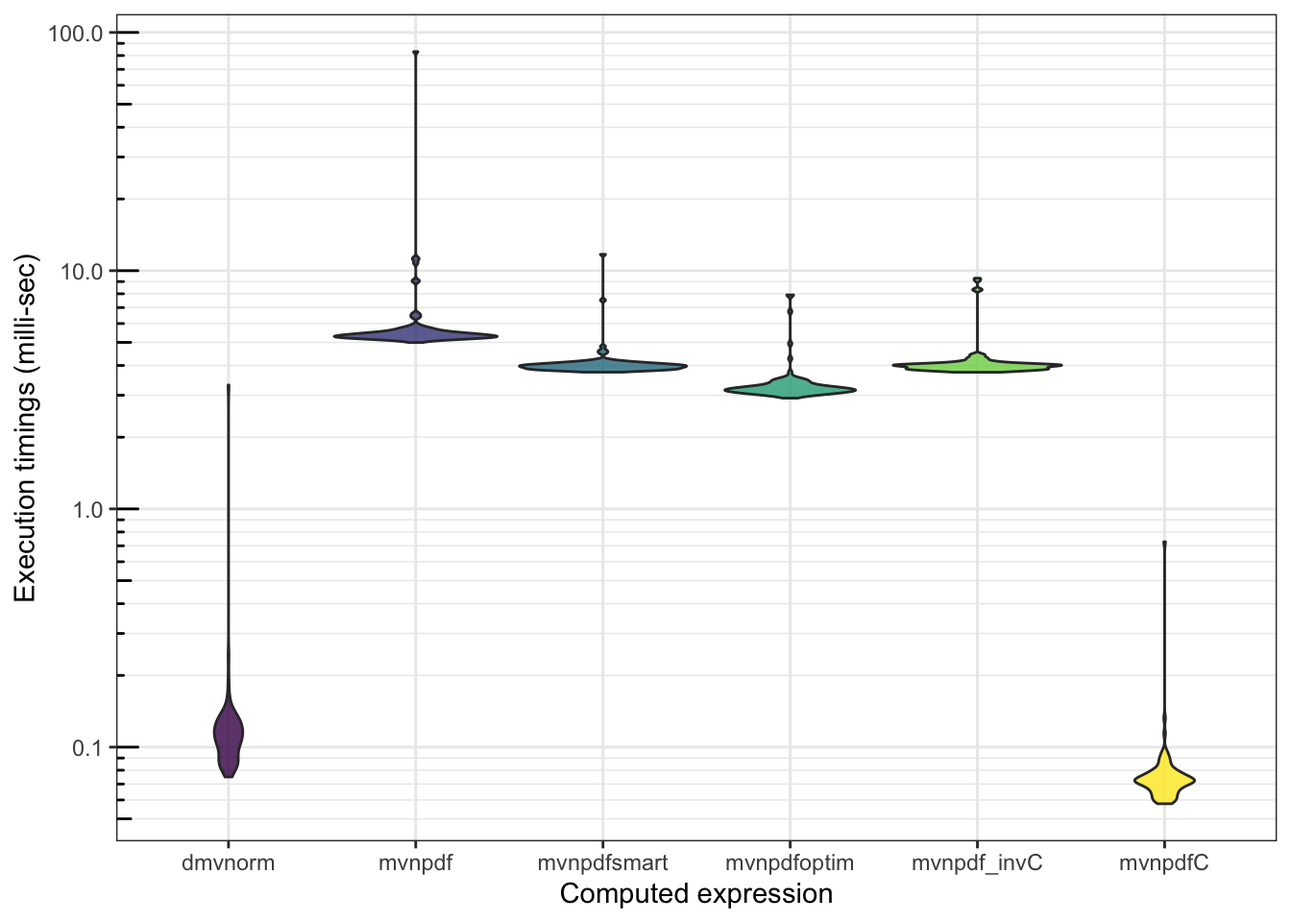
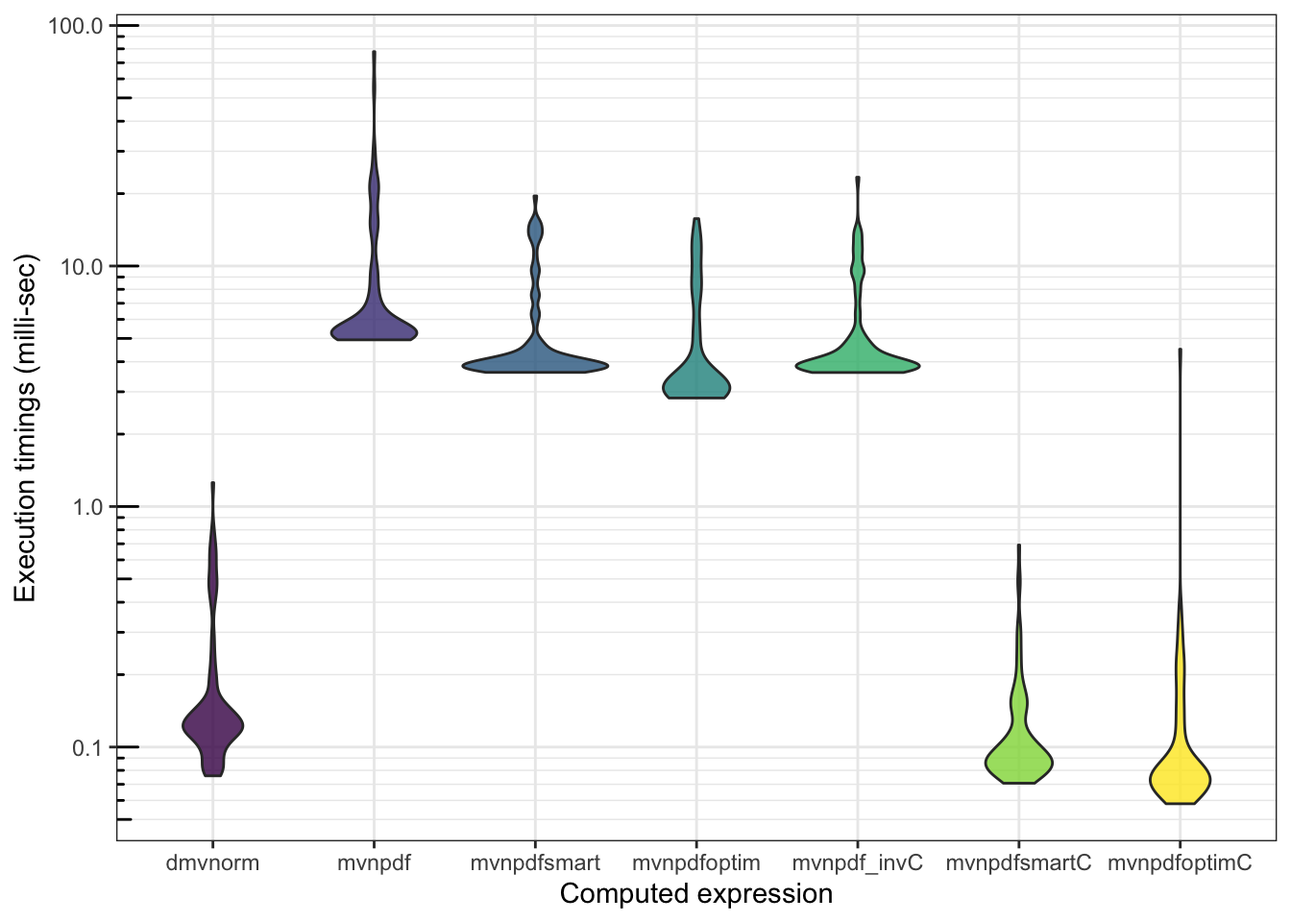
Rcpp smart

diff --git a/_book/rcpp-or-how-to-easily-embed-c-code-into-a-package.html b/_book/rcpp-or-how-to-easily-embed-c-code-into-a-package.html
@@ -93,7 +93,7 @@ package:</p></li>
 <p><code>C++</code> is not a very different language from <svg aria-hidden="true" role="img" viewbox="0 0 581 512" style="height:1em;width:1.13em;vertical-align:-0.125em;margin-left:auto;margin-right:auto;font-size:inherit;fill:currentColor;overflow:visible;position:relative;"><path d="M581 226.6C581 119.1 450.9 32 290.5 32S0 119.1 0 226.6C0 322.4 103.3 402 239.4 418.1V480h99.1v-61.5c24.3-2.7 47.6-7.4 69.4-13.9L448 480h112l-67.4-113.7c54.5-35.4 88.4-84.9 88.4-139.7zm-466.8 14.5c0-73.5 98.9-133 220.8-133s211.9 40.7 211.9 133c0 50.1-26.5 85-70.3 106.4-2.4-1.6-4.7-2.9-6.4-3.7-10.2-5.2-27.8-10.5-27.8-10.5s86.6-6.4 86.6-92.7-90.6-87.9-90.6-87.9h-199V361c-74.1-21.5-125.2-67.1-125.2-119.9zm225.1 38.3v-55.6c57.8 0 87.8-6.8 87.8 27.3 0 36.5-38.2 28.3-87.8 28.3zm-.9 72.5H365c10.8 0 18.9 11.7 24 19.2-16.1 1.9-33 2.8-50.6 2.9v-22.1z"></path></svg>. The main differences that will have an impact for us:</p>
 <ul>
 <li><p><code>C++</code> is very efficient for <em>for</em> loops (including nested for loops – ⚠ there is often one order that is faster than the other, due to the way C++ allocates and walks through memory).</p></li>
-<li><p>Each command must end with a semicolon ‘;’.</p></li>
+<li><p>Each command must end with a semicolon <code>;</code>.</p></li>
 <li><p>C++ is a <strong>typed</strong> language: you must <strong>declare</strong> the type of <strong>each variable</strong> before you can use it in the code.</p></li>
 </ul>
 <blockquote>
@@ -118,17 +118,17 @@ package:</p></li>
 <span class="va">mb</span></code></pre></div>
 <pre><code>## Unit: microseconds
 ##                                                            expr      min
-##              mvtnorm::dmvnorm(matrix(1.96, nrow = n, ncol = 2))   74.957
-##       mvnpdf(x = matrix(1.96, nrow = 2, ncol = n), Log = FALSE) 4830.366
-##  mvnpdfsmart(x = matrix(1.96, nrow = 2, ncol = n), Log = FALSE) 3566.319
-##  mvnpdfoptim(x = matrix(1.96, nrow = 2, ncol = n), Log = FALSE) 2849.916
-##  mvnpdf_invC(x = matrix(1.96, nrow = 2, ncol = n), Log = FALSE) 3520.409
-##        lq      mean   median        uq       max neval
-##    95.956  116.6394  112.770  129.8925   245.621   100
-##  5028.893 5440.8102 5115.710 5253.5005 12246.132   100
-##  3740.764 4149.7088 3818.528 3925.8840 12905.508   100
-##  2983.660 3190.1240 3098.000 3235.1300  7986.497   100
-##  3739.808 4111.9413 3826.202 4015.9635  8826.675   100</code></pre>
+##              mvtnorm::dmvnorm(matrix(1.96, nrow = n, ncol = 2))   65.124
+##       mvnpdf(x = matrix(1.96, nrow = 2, ncol = n), Log = FALSE) 4385.828
+##  mvnpdfsmart(x = matrix(1.96, nrow = 2, ncol = n), Log = FALSE) 3123.313
+##  mvnpdfoptim(x = matrix(1.96, nrow = 2, ncol = n), Log = FALSE) 2505.921
+##  mvnpdf_invC(x = matrix(1.96, nrow = 2, ncol = n), Log = FALSE) 3199.622
+##         lq      mean    median        uq       max neval
+##    99.4615  194.6067  118.7655   155.223  1212.833   100
+##  5086.8085 8445.4008 5312.9740  6765.887 34013.310   100
+##  3719.0570 5773.8675 3936.7650  4319.208 41610.932   100
+##  3025.0395 5381.2065 3247.7600  7305.590 19374.333   100
+##  3766.4930 6749.5553 3953.5380 10025.012 20069.787   100</code></pre>
 <div class="inline-figure"><img src="AdvancedRcourse_dev_perf_files/figure-html/unnamed-chunk-31-1.png" width="672"></div>
 <div class="sourceCode" id="cb31"><pre class="downlit sourceCode r">
 <code class="sourceCode R"><span class="fu">profvis</span><span class="fu">::</span><span class="fu"><a href="https://rdrr.io/pkg/profvis/man/profvis.html">profvis</a></span><span class="op">(</span><span class="fu">mvnpdfoptim</span><span class="op">(</span>x<span class="op">=</span><span class="fu"><a href="https://rdrr.io/r/base/matrix.html">matrix</a></span><span class="op">(</span><span class="fl">1.96</span>, 
@@ -144,11 +144,12 @@ package:</p></li>
 <blockquote>
 <p>👉 <strong><em>Your turn !</em></strong></p>
 <ol style="list-style-type: decimal">
-<li><p>From <code>mvnpdfsmart</code>, propose a complete implementation in <code>C++</code> for computating the density of the multivariate Normal distribution <code>mvnpdfC()</code>.</p></li>
-<li><p>Evaluate the performance gain of this new implementation <code>mvnpdfC</code>.</p></li>
+<li><p>From <code>mvnpdfsmart</code>, propose a complete implementation in <code>C++</code> for computating the density of the multivariate Normal distribution <code>mvnpdfsmartC()</code>.</p></li>
+<li><p>Evaluate the performance gain of this new implementation <code>mvnpdfsmartC</code>.</p></li>
 </ol>
 </blockquote>
-<p>You can download our proposal for <code>mvnpdfC.cpp</code> <a href="https://heavyr.borishejblum.science/AdvancedRcourse_dev_perf_files/mvnpdfC.cpp">here</a>.</p>
+<p>You can download our proposal for <code>mvnpdfsmartC.cpp</code> <a href="https://heavyr.borishejblum.science/AdvancedRcourse_dev_perf_files/mvnpdfsmartC.cpp">here</a>.</p>
+<p>For additional (at the cost of code readability), you can have a look at our optimized Armadillo C++ implementation in <a href="https://heavyr.borishejblum.science/AdvancedRcourse_dev_perf_files/mvnpdfoptimC.cpp"><code>mvnpdfoptimC.cpp</code></a>.</p>
 <div class="sourceCode" id="cb32"><pre class="downlit sourceCode r">
 <code class="sourceCode R"><span class="va">n</span> <span class="op">&lt;-</span> <span class="fl">1000</span>
 <span class="va">mb</span> <span class="op">&lt;-</span> <span class="fu"><a href="https://rdrr.io/pkg/microbenchmark/man/microbenchmark.html">microbenchmark</a></span><span class="op">(</span><span class="fu">mvtnorm</span><span class="fu">::</span><span class="fu"><a href="https://rdrr.io/pkg/mvtnorm/man/Mvnorm.html">dmvnorm</a></span><span class="op">(</span><span class="fu"><a href="https://rdrr.io/r/base/matrix.html">matrix</a></span><span class="op">(</span><span class="fl">1.96</span>, nrow <span class="op">=</span> <span class="va">n</span>, ncol <span class="op">=</span> <span class="fl">2</span><span class="op">)</span><span class="op">)</span>,
@@ -156,24 +157,27 @@ package:</p></li>
                      <span class="fu">mvnpdfsmart</span><span class="op">(</span>x<span class="op">=</span><span class="fu"><a href="https://rdrr.io/r/base/matrix.html">matrix</a></span><span class="op">(</span><span class="fl">1.96</span>, nrow <span class="op">=</span> <span class="fl">2</span>, ncol <span class="op">=</span> <span class="va">n</span><span class="op">)</span>, Log<span class="op">=</span><span class="cn">FALSE</span><span class="op">)</span>,
                      <span class="fu">mvnpdfoptim</span><span class="op">(</span>x<span class="op">=</span><span class="fu"><a href="https://rdrr.io/r/base/matrix.html">matrix</a></span><span class="op">(</span><span class="fl">1.96</span>, nrow <span class="op">=</span> <span class="fl">2</span>, ncol <span class="op">=</span> <span class="va">n</span><span class="op">)</span>, Log<span class="op">=</span><span class="cn">FALSE</span><span class="op">)</span>,
                      <span class="fu">mvnpdf_invC</span><span class="op">(</span>x<span class="op">=</span><span class="fu"><a href="https://rdrr.io/r/base/matrix.html">matrix</a></span><span class="op">(</span><span class="fl">1.96</span>, nrow <span class="op">=</span> <span class="fl">2</span>, ncol <span class="op">=</span> <span class="va">n</span><span class="op">)</span>, Log<span class="op">=</span><span class="cn">FALSE</span><span class="op">)</span>,
-                     <span class="fu">mvnpdfC</span><span class="op">(</span>x<span class="op">=</span><span class="fu"><a href="https://rdrr.io/r/base/matrix.html">matrix</a></span><span class="op">(</span><span class="fl">1.96</span>, nrow <span class="op">=</span> <span class="fl">2</span>, ncol <span class="op">=</span> <span class="va">n</span><span class="op">)</span>, mean <span class="op">=</span> <span class="fu"><a href="https://rdrr.io/r/base/rep.html">rep</a></span><span class="op">(</span><span class="fl">0</span>, <span class="fl">2</span><span class="op">)</span>, varcovM <span class="op">=</span> <span class="fu"><a href="https://rdrr.io/r/base/diag.html">diag</a></span><span class="op">(</span><span class="fl">2</span><span class="op">)</span>, Log<span class="op">=</span><span class="cn">FALSE</span><span class="op">)</span>,
+                     <span class="fu">mvnpdfsmartC</span><span class="op">(</span>x<span class="op">=</span><span class="fu"><a href="https://rdrr.io/r/base/matrix.html">matrix</a></span><span class="op">(</span><span class="fl">1.96</span>, nrow <span class="op">=</span> <span class="fl">2</span>, ncol <span class="op">=</span> <span class="va">n</span><span class="op">)</span>, mean <span class="op">=</span> <span class="fu"><a href="https://rdrr.io/r/base/rep.html">rep</a></span><span class="op">(</span><span class="fl">0</span>, <span class="fl">2</span><span class="op">)</span>, varcovM <span class="op">=</span> <span class="fu"><a href="https://rdrr.io/r/base/diag.html">diag</a></span><span class="op">(</span><span class="fl">2</span><span class="op">)</span>, Log<span class="op">=</span><span class="cn">FALSE</span><span class="op">)</span>,
+                     <span class="fu">mvnpdfoptimC</span><span class="op">(</span>x<span class="op">=</span><span class="fu"><a href="https://rdrr.io/r/base/matrix.html">matrix</a></span><span class="op">(</span><span class="fl">1.96</span>, nrow <span class="op">=</span> <span class="fl">2</span>, ncol <span class="op">=</span> <span class="va">n</span><span class="op">)</span>, mean <span class="op">=</span> <span class="fu"><a href="https://rdrr.io/r/base/rep.html">rep</a></span><span class="op">(</span><span class="fl">0</span>, <span class="fl">2</span><span class="op">)</span>, varcovM <span class="op">=</span> <span class="fu"><a href="https://rdrr.io/r/base/diag.html">diag</a></span><span class="op">(</span><span class="fl">2</span><span class="op">)</span>, Log<span class="op">=</span><span class="cn">FALSE</span><span class="op">)</span>,
                      times<span class="op">=</span><span class="fl">100L</span><span class="op">)</span>
 <span class="va">mb</span></code></pre></div>
 <pre><code>## Unit: microseconds
-##                                                                                                  expr
-##                                                    mvtnorm::dmvnorm(matrix(1.96, nrow = n, ncol = 2))
-##                                             mvnpdf(x = matrix(1.96, nrow = 2, ncol = n), Log = FALSE)
-##                                        mvnpdfsmart(x = matrix(1.96, nrow = 2, ncol = n), Log = FALSE)
-##                                        mvnpdfoptim(x = matrix(1.96, nrow = 2, ncol = n), Log = FALSE)
-##                                        mvnpdf_invC(x = matrix(1.96, nrow = 2, ncol = n), Log = FALSE)
-##  mvnpdfC(x = matrix(1.96, nrow = 2, ncol = n), mean = rep(0, 2),      varcovM = diag(2), Log = FALSE)
-##       min        lq       mean    median        uq       max neval
-##    74.961   92.5515  143.71050  109.1830  124.7385  3312.536   100
-##  4991.796 5245.8765 6438.73775 5360.7095 5542.4040 83071.440   100
-##  3749.164 3877.8145 4102.79395 3969.5850 4056.4780 11712.550   100
-##  2916.814 3100.8705 3361.40040 3180.0270 3319.2945  7913.995   100
-##  3745.999 3863.5620 4172.19477 3986.3905 4050.4545  9298.978   100
-##    57.855   67.0110   79.95266   72.1185   77.0905   727.795   100</code></pre>
+##                                                                                                       expr
+##                                                         mvtnorm::dmvnorm(matrix(1.96, nrow = n, ncol = 2))
+##                                                  mvnpdf(x = matrix(1.96, nrow = 2, ncol = n), Log = FALSE)
+##                                             mvnpdfsmart(x = matrix(1.96, nrow = 2, ncol = n), Log = FALSE)
+##                                             mvnpdfoptim(x = matrix(1.96, nrow = 2, ncol = n), Log = FALSE)
+##                                             mvnpdf_invC(x = matrix(1.96, nrow = 2, ncol = n), Log = FALSE)
+##  mvnpdfsmartC(x = matrix(1.96, nrow = 2, ncol = n), mean = rep(0,      2), varcovM = diag(2), Log = FALSE)
+##  mvnpdfoptimC(x = matrix(1.96, nrow = 2, ncol = n), mean = rep(0,      2), varcovM = diag(2), Log = FALSE)
+##       min       lq      mean    median        uq       max neval
+##    75.917  110.387  197.9245  124.1960  157.4325  1256.935   100
+##  4931.640 5188.288 9275.1514 5373.7055 7844.4305 77858.099   100
+##  3612.515 3777.602 5501.5053 3972.8825 4712.0445 19561.479   100
+##  2826.213 3020.449 4884.5568 3207.6715 5140.8520 15737.090   100
+##  3607.748 3752.820 5388.6261 3994.1985 4849.5315 23388.501   100
+##    70.730   82.846  124.5476   90.8290  130.6830   691.755   100
+##    58.110   69.123  150.0763   78.3205  109.9820  4509.591   100</code></pre>
 <div class="inline-figure"><img src="AdvancedRcourse_dev_perf_files/figure-html/unnamed-chunk-34-1.png" width="672"></div>
 <p>Note that <code>Rcpp</code> functions can be used outside of a package architecture thanks to the <code><a href="https://rdrr.io/pkg/Rcpp/man/sourceCpp.html">Rcpp::sourceCpp()</a></code> function. But, as we have seen that it is always desirable to manage all of one’s code inside a package, it is unlikely that you will need this !</p>
 </div>

diff --git a/_book/measuring-and-comparing-execution-times.html b/_book/measuring-and-comparing-execution-times.html
@@ -74,14 +74,14 @@
 <code class="sourceCode R"><span class="va">obs</span> <span class="op">&lt;-</span> <span class="fu"><a href="https://rdrr.io/r/base/matrix.html">matrix</a></span><span class="op">(</span><span class="fu"><a href="https://rdrr.io/r/base/rep.html">rep</a></span><span class="op">(</span><span class="fl">1.96</span>, <span class="fl">2</span><span class="op">)</span>, nrow<span class="op">=</span><span class="fl">2</span>, ncol<span class="op">=</span><span class="fl">1</span><span class="op">)</span>
 <span class="fu"><a href="https://rdrr.io/r/base/system.time.html">system.time</a></span><span class="op">(</span><span class="fu">mvnpdf</span><span class="op">(</span>x<span class="op">=</span><span class="va">obs</span>, Log<span class="op">=</span><span class="cn">FALSE</span><span class="op">)</span><span class="op">)</span></code></pre></div>
 <pre><code>## utilisateur     système      écoulé 
-##       0.001       0.000       0.002</code></pre>
+##       0.001       0.001       0.003</code></pre>
 <p>The problem that appears in this example is that the execution is so fast that <code><a href="https://rdrr.io/r/base/system.time.html">system.time()</a></code> displays <code>0</code> (or a very close value) that will be impossible to marginally compare to a hopefully faster implementation. Also, we see that there is some variability when we run the command several times.</p>
 <p>Thus if we want to compare our code with the <code><a href="https://rdrr.io/pkg/mvtnorm/man/Mvnorm.html">mvtnorm::dmvnorm()</a></code> function, we can’t use <code><a href="https://rdrr.io/r/base/system.time.html">system.time()</a></code>:</p>
 <div class="sourceCode" id="cb11"><pre class="downlit sourceCode r">
 <code class="sourceCode R"><span class="va">obs</span> <span class="op">&lt;-</span> <span class="fu"><a href="https://rdrr.io/r/base/rep.html">rep</a></span><span class="op">(</span><span class="fl">1.96</span>, <span class="fl">2</span><span class="op">)</span>
 <span class="fu"><a href="https://rdrr.io/r/base/system.time.html">system.time</a></span><span class="op">(</span><span class="fu">mvtnorm</span><span class="fu">::</span><span class="fu"><a href="https://rdrr.io/pkg/mvtnorm/man/Mvnorm.html">dmvnorm</a></span><span class="op">(</span><span class="va">obs</span><span class="op">)</span><span class="op">)</span></code></pre></div>
 <pre><code>## utilisateur     système      écoulé 
-##       0.005       0.003       0.012</code></pre>
+##       0.009       0.007       0.026</code></pre>
 <p>We could say that we have to increase the complexity of our calculation, but there is a better way: use the <code>microbenchmark</code> package !</p>
 </div>
 <div id="compare-execution-timings-with-microbenchmark." class="section level2" number="3.2">
@@ -97,12 +97,12 @@
                      times <span class="op">=</span> <span class="fl">1000</span><span class="op">)</span>
 <span class="va">mb</span></code></pre></div>
 <pre><code>## Unit: microseconds
-##                                           expr    min     lq     mean  median
-##                 mvtnorm::dmvnorm(rep(1.96, 2)) 37.335 42.323 51.91160 48.3660
-##  mvnpdf(x = matrix(rep(1.96, 2)), Log = FALSE) 34.741 39.266 50.35336 44.4625
+##                                           expr    min      lq     mean  median
+##                 mvtnorm::dmvnorm(rep(1.96, 2)) 38.541 54.0815 84.56644 67.4135
+##  mvnpdf(x = matrix(rep(1.96, 2)), Log = FALSE) 35.913 50.6945 88.76405 60.6305
 ##       uq      max neval
-##  57.5255  170.798  1000
-##  52.4980 2389.274  1000</code></pre>
+##  90.1445  798.391  1000
+##  82.7245 8728.613  1000</code></pre>
 <div class="inline-figure"><img src="AdvancedRcourse_dev_perf_files/figure-html/unnamed-chunk-13-1.png" width="672"></div>
 <p>Both <code>mvnpdf()</code> and <code>dmnvorm()</code> functions being able to take a matrix as input, we can also compare their timings in this setting:</p>
 <div class="sourceCode" id="cb15"><pre class="downlit sourceCode r">
@@ -114,11 +114,11 @@
 <span class="va">mb</span></code></pre></div>
 <pre><code>## Unit: microseconds
 ##                                                       expr     min       lq
-##         mvtnorm::dmvnorm(matrix(1.96, nrow = n, ncol = 2))  48.941  58.8965
-##  mvnpdf(x = matrix(1.96, nrow = 2, ncol = n), Log = FALSE) 489.989 527.7485
-##       mean   median      uq     max neval
-##   74.39789  65.3415  79.394 190.473   100
-##  569.71950 563.8125 590.484 882.932   100</code></pre>
+##         mvtnorm::dmvnorm(matrix(1.96, nrow = n, ncol = 2))  50.458  61.2235
+##  mvnpdf(x = matrix(1.96, nrow = 2, ncol = n), Log = FALSE) 507.831 545.9085
+##      mean   median       uq     max neval
+##   70.1771  66.4345  76.0815 198.892   100
+##  595.7492 597.9885 626.8220 734.035   100</code></pre>
 <div class="inline-figure"><img src="AdvancedRcourse_dev_perf_files/figure-html/unnamed-chunk-15-1.png" width="672"></div>
 <p>Something happened… And we will find out what exactly is causing this issue in what comes next.</p>
 

diff --git a/_book/profiling-code.html b/_book/profiling-code.html
@@ -91,11 +91,11 @@
 <span class="va">mb</span></code></pre></div>
 <pre><code>## Unit: milliseconds
 ##                                                            expr      min
-##       mvnpdf(x = matrix(1.96, nrow = 2, ncol = n), Log = FALSE) 4.845550
-##  mvnpdfsmart(x = matrix(1.96, nrow = 2, ncol = n), Log = FALSE) 3.599505
+##       mvnpdf(x = matrix(1.96, nrow = 2, ncol = n), Log = FALSE) 4.978296
+##  mvnpdfsmart(x = matrix(1.96, nrow = 2, ncol = n), Log = FALSE) 3.632696
 ##        lq     mean   median       uq      max neval
-##  5.142760 6.055649 5.327784 6.212088 16.71266   100
-##  3.778189 4.163521 3.909528 4.105548 10.72688   100</code></pre>
+##  5.326261 7.820097 5.985543 7.523787 53.29416   100
+##  3.836824 5.104701 3.947392 4.695637 19.00220   100</code></pre>
 <div class="inline-figure"><img src="AdvancedRcourse_dev_perf_files/figure-html/unnamed-chunk-20-1.png" width="672"></div>
 <p>We can also check whether <code>mvnpdfsmart</code> becomes competitive with <code><a href="https://rdrr.io/pkg/mvtnorm/man/Mvnorm.html">dmvnorm()</a></code>:</p>
 <div class="sourceCode" id="cb21"><pre class="downlit sourceCode r">
@@ -107,13 +107,13 @@
 <span class="va">mb</span></code></pre></div>
 <pre><code>## Unit: microseconds
 ##                                                            expr      min
-##              mvtnorm::dmvnorm(matrix(1.96, nrow = n, ncol = 2))   69.716
-##       mvnpdf(x = matrix(1.96, nrow = 2, ncol = n), Log = FALSE) 4840.386
-##  mvnpdfsmart(x = matrix(1.96, nrow = 2, ncol = n), Log = FALSE) 3526.033
+##              mvtnorm::dmvnorm(matrix(1.96, nrow = n, ncol = 2))   74.973
+##       mvnpdf(x = matrix(1.96, nrow = 2, ncol = n), Log = FALSE) 4903.411
+##  mvnpdfsmart(x = matrix(1.96, nrow = 2, ncol = n), Log = FALSE) 3579.980
 ##        lq      mean    median       uq       max neval
-##    87.182  114.9128  114.7975  137.475   231.798   100
-##  5030.731 6139.2480 5202.8720 5672.869 25546.232   100
-##  3659.269 3903.8097 3755.5935 3964.489  7056.973   100</code></pre>
+##    95.867  133.5852  118.2385  146.085   531.132   100
+##  5142.553 7894.8026 5439.2860 6427.504 45985.044   100
+##  3703.761 4560.7816 3817.9840 4396.846 29383.089   100</code></pre>
 <div class="inline-figure"><img src="AdvancedRcourse_dev_perf_files/figure-html/unnamed-chunk-22-1.png" width="672"></div>
 <p>There is still work to be done…</p>
 </div>
@@ -138,15 +138,15 @@
 <span class="va">mb</span></code></pre></div>
 <pre><code>## Unit: microseconds
 ##                                                            expr      min
-##              mvtnorm::dmvnorm(matrix(1.96, nrow = n, ncol = 2))   69.632
-##       mvnpdf(x = matrix(1.96, nrow = 2, ncol = n), Log = FALSE) 4836.061
-##  mvnpdfsmart(x = matrix(1.96, nrow = 2, ncol = n), Log = FALSE) 3563.900
-##  mvnpdfoptim(x = matrix(1.96, nrow = 2, ncol = n), Log = FALSE) 2805.886
-##         lq      mean   median        uq       max neval
-##    94.8515  123.0524  119.906  144.9835   311.573   100
-##  5017.5645 5612.7945 5205.633 5893.0975 11394.929   100
-##  3686.8070 4452.5442 3817.304 4423.6895 11966.054   100
-##  2894.0945 3283.3472 3016.630 3337.9690  9904.099   100</code></pre>
+##              mvtnorm::dmvnorm(matrix(1.96, nrow = n, ncol = 2))   73.215
+##       mvnpdf(x = matrix(1.96, nrow = 2, ncol = n), Log = FALSE) 4947.441
+##  mvnpdfsmart(x = matrix(1.96, nrow = 2, ncol = n), Log = FALSE) 3641.029
+##  mvnpdfoptim(x = matrix(1.96, nrow = 2, ncol = n), Log = FALSE) 2865.195
+##        lq      mean    median        uq       max neval
+##   112.040  159.5284  131.6665   152.115   802.477   100
+##  5292.811 9082.1799 5899.0315 10619.879 29989.205   100
+##  3790.613 5902.9247 3975.2385  5122.364 33229.950   100
+##  3025.960 5268.3439 3242.9435  4918.802 35166.196   100</code></pre>
 <div class="inline-figure"><img src="AdvancedRcourse_dev_perf_files/figure-html/unnamed-chunk-25-1.png" width="672"></div>
 <p>Finally, we can profile tthe <code><a href="https://rdrr.io/pkg/mvtnorm/man/Mvnorm.html">dmvnorm()</a></code> function:</p>
 <div class="sourceCode" id="cb26"><pre class="downlit sourceCode r">

diff --git a/_book/code-parallelization.html b/_book/code-parallelization.html
@@ -141,7 +141,7 @@
 <span class="op">}</span>
 <span class="fu"><a href="https://rdrr.io/r/base/system.time.html">system.time</a></span><span class="op">(</span><span class="fu">colmedian_apply</span><span class="op">(</span><span class="va">x</span><span class="op">)</span><span class="op">)</span></code></pre></div>
 <pre><code>## utilisateur     système      écoulé 
-##       3.389       0.015       3.412</code></pre>
+##       3.959       0.034       4.017</code></pre>
 <p>In reality, a (good) <code>for</code> loop is no slower – provided it is nicely programmed:</p>
 <div class="sourceCode" id="cb39"><pre class="downlit sourceCode r">
 <code class="sourceCode R"><span class="va">colmedian_for</span> <span class="op">&lt;-</span> <span class="kw">function</span><span class="op">(</span><span class="va">x</span><span class="op">)</span><span class="op">{</span>
@@ -153,7 +153,7 @@
 <span class="op">}</span>
 <span class="fu"><a href="https://rdrr.io/r/base/system.time.html">system.time</a></span><span class="op">(</span><span class="fu">colmedian_for</span><span class="op">(</span><span class="va">x</span><span class="op">)</span><span class="op">)</span></code></pre></div>
 <pre><code>## utilisateur     système      écoulé 
-##       3.482       0.013       3.507</code></pre>
+##       3.242       0.014       3.269</code></pre>
 <blockquote>
 <p>👉 <strong><em>Your turn !</em></strong>
 Try to further improve this computation time through parallelizing your code for each of the 100,000 variables. Is there a gain in computation time?</p>
@@ -234,7 +234,7 @@ iterators::nextElem(myiter)
 <p>To run your code (exactly the same code, this is one of the advantages of the <code>future*</code> family packages), you need to set up a “plan” of computations:</p>
 <ul>
 <li><p>On a computer (or a single computer server) under Unix (Linux, Mac OS), you can use <code>plan(multicore(workers = XX))</code> which is often more efficient. The multisession plan always works.</p></li>
-<li><p>on a HPC cluster (like Avakas in Bordeaux), we refer to the package <a href="https://cran.r-project.org/web/packages/future.batchtools/vignettes/future.batchtools.html"><code>future.batchtools</code></a></p></li>
+<li><p>on a HPC cluster (like CURTA in Bordeaux), we refer to the package <a href="https://cran.r-project.org/web/packages/future.batchtools/vignettes/future.batchtools.html"><code>future.batchtools</code></a></p></li>
 </ul>
 </div>
 </div>

diff --git a/_book/AdvancedRcourse_dev_perf_files/mvnpdfoptimC.cpp b/_book/AdvancedRcourse_dev_perf_files/mvnpdfoptimC.cpp
@@ -4,7 +4,6 @@ using namespace arma;
 
 // [[Rcpp::depends(RcppArmadillo)]]
 const double log2pi2 = log(2.0 * M_PI)/2.0;
-
 //'Based on the implementation from Nino Hardt and Dicko Ahmadou
 //'http://gallery.rcpp.org/articles/dmvnorm_arma/
 //'(accessed in August 2014)
@@ -13,25 +12,23 @@ const double log2pi2 = log(2.0 * M_PI)/2.0;
 //'@export
 //'
 // [[Rcpp::export]]
-NumericVector mvnpdfC(arma::mat x,
-                      arma::colvec mean,
-                      arma::mat varcovM,
-                      bool Log=true){
+arma::vec mvnpdfoptimC(arma::mat x,
+                       arma::colvec mean,
+                       arma::mat varcovM,
+                       bool Log=true){
 
   int p = x.n_rows;
   int n = x.n_cols;
   NumericVector y(n);
 
-  mat Rinv = inv(trimatu(chol(varcovM)));
-  //mat R = chol(as<arma::mat>(varcovM));
-  double logSqrtDetvarcovM = sum(log(Rinv.diag()));
-  double constant = - p*log2pi2;
+  mat Rinvsr = inv(trimatu(chol(varcovM)));
+  double logSqrtDetvarcovM = sum(log(Rinvsr.diag()));
+  double constant = - p * log2pi2;
 
   for (int i=0; i < n; i++) {
     colvec x_i = x.col(i) - mean;
-    rowvec xRinv = trans(x_i)*Rinv;
-    //vec xRinv = solve(trimatl(R.t()), x_i);
-    double quadform = sum(xRinv%xRinv);
+    rowvec xRinvsr = trans(x_i) * Rinvsr;
+    double quadform = sum(xRinvsr % xRinvsr);
     if (!Log) {
       y(i) = exp(-0.5*quadform + logSqrtDetvarcovM + constant);
     } else{

diff --git a/_book/AdvancedRcourse_dev_perf_files/mvnpdfsmartC.cpp b/_book/AdvancedRcourse_dev_perf_files/mvnpdfsmartC.cpp
@@ -1,0 +1,29 @@
+#include <RcppArmadillo.h>
+using namespace arma;
+// [[Rcpp::depends(RcppArmadillo)]]
+//'@rdname mvnpdf
+//'@export
+// [[Rcpp::export]]
+arma::vec mvnpdfsmartC(arma::mat x,
+                       arma::colvec mean,
+                       arma::mat varcovM,
+                       bool Log=true) {
+  int p = x.n_rows;
+  int n = x.n_cols;
+
+  mat invvarcovM = inv_sympd(varcovM);
+  double LogDetvarcovM = log_det_sympd(varcovM);
+
+  vec y(n);
+  for (int j=0; j < n; j++){
+    colvec x_0 = x.col(j) - mean;
+    vec tempres = -p/2.0 * log(2.0*M_PI) - 0.5 * LogDetvarcovM - 0.5 * x_0.t() * invvarcovM * x_0;
+    y(j) =  tempres(0);
+  }
+
+  if (!Log){
+    y =  exp(y);
+  }
+
+  return y;
+}
